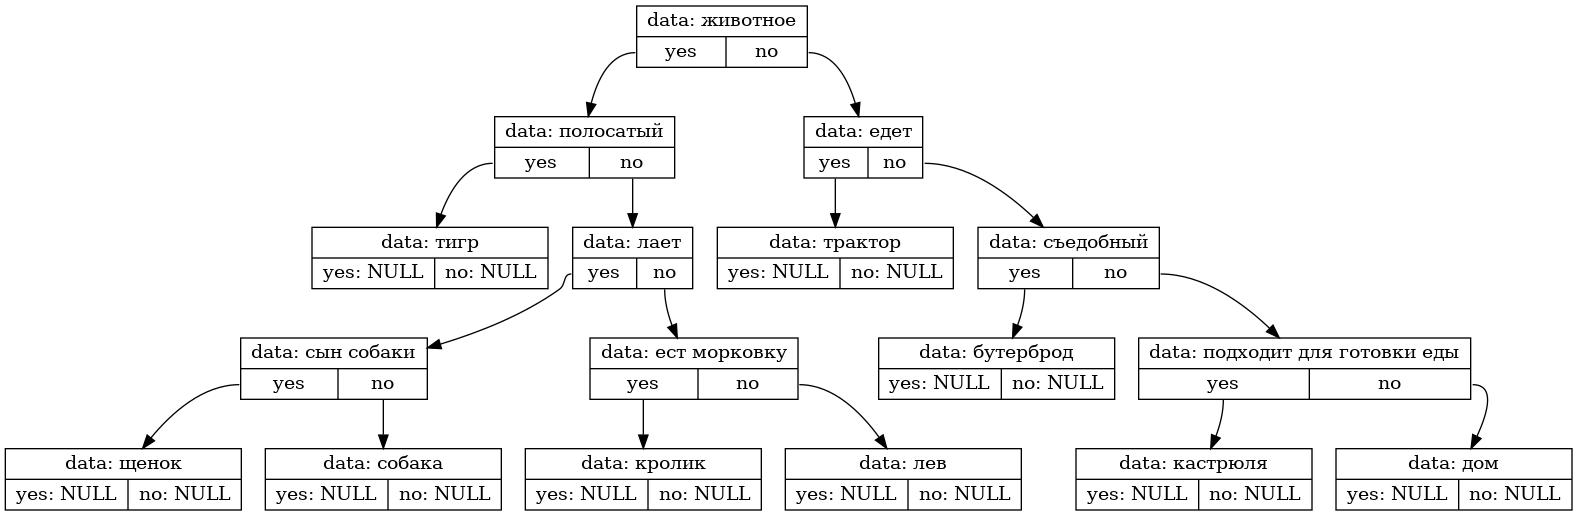
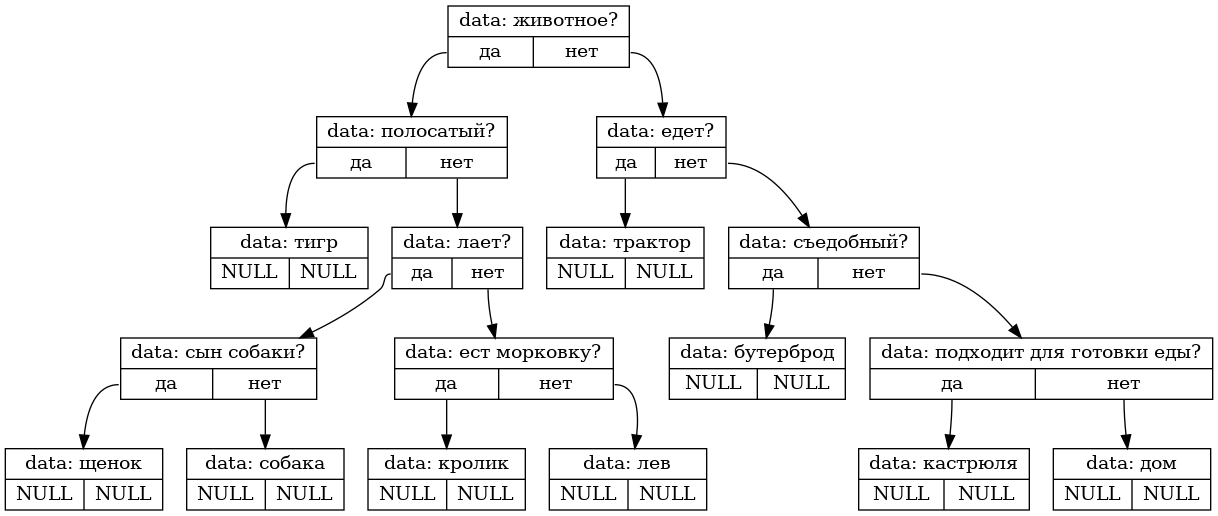
Made dump functions

diff --git a/src/Akinator_Dump.cpp b/src/Akinator_Dump.cpp
@@ -48,11 +48,11 @@ int RecursiveTreeDump(tnode* node, FILE* dump_fp, int parents_num, bool left_nod
 
     if (node->right != nullptr && node->left != nullptr) {
         fprintf(dump_fp, "\tNode%d [shape = record, label = "
-                         "\" {<data> data: %s | {<yes> yes | <no> no}} \"];\n",
+                         "\" {<data> data: %s? | {<yes> да | <no> нет}} \"];\n",
                          node_number, node->data);
     } else {
         fprintf(dump_fp, "\tNode%d [shape = record, label = "
-                         "\" {<data> data: %s | {<yes> yes: NULL | <no> no: NULL}} \"];\n",
+                         "\" {<data> data: %s | {<yes> NULL | <no> NULL}} \"];\n",
                          node_number, node->data);
     }
 
